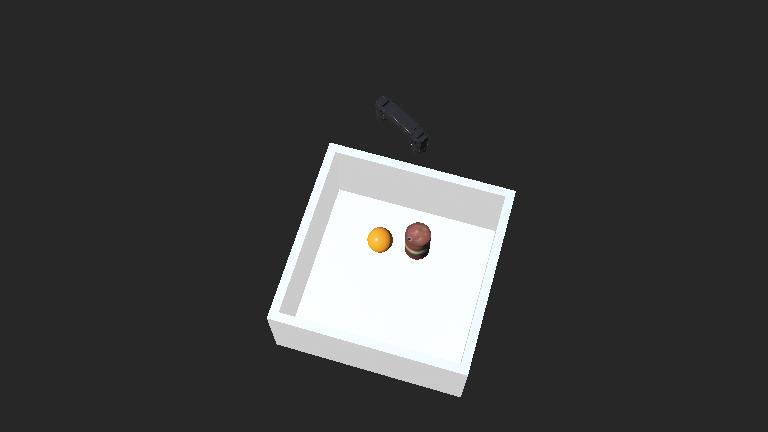
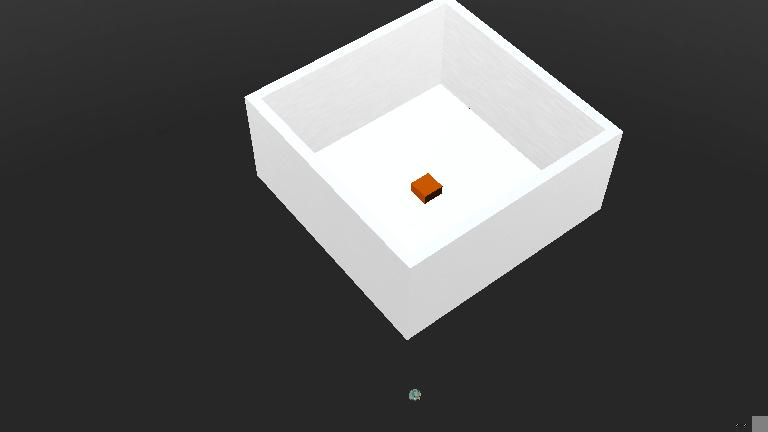
para ti sara

Changed region(s): [[0.3125, 0.0, 0.8125, 0.9329], [0.9688, 0.963, 1.0, 1.0]]

diff --git a/data_generator_alex.py b/data_generator_alex.py
@@ -1,50 +1,43 @@
-from controller import Supervisor
+import os
 import numpy as np
 import cv2
-import os
+from controller import Supervisor
 
-# Pasta onde salvar as imagens e labels
-save_dir = "images"
-os.makedirs(save_dir, exist_ok=True)
-os.makedirs(os.path.join(save_dir, "labels"), exist_ok=True)
-
-# Inicializa o supervisor
 supervisor = Supervisor()
 timestep = int(supervisor.getBasicTimeStep())
 
-# Câmara do robô
-camera = supervisor.getDevice("MultiSense S21 left camera")
+camera = supervisor.getDevice("camera")
 camera.enable(timestep)
+
 cam_width = camera.getWidth()
 cam_height = camera.getHeight()
 
-# Obtemos os dois objetos que queremos mover
-target1 = supervisor.getFromDef("BALL")
-target2 = supervisor.getFromDef("OIL_BARREL")
+save_dir = "dataset"
+os.makedirs(save_dir, exist_ok=True)
+os.makedirs(os.path.join(save_dir, "labels"), exist_ok=True)
 
+# Faixas para posição aleatória (x, y, z)
+x_range = (-0.5, 0.5)
+y_range = (-0.5, 0.5)
+z_range = (0, 3.5)
+
+target1 = supervisor.getFromDef("SOLID")  # nome do DEF do novo objeto
 target1_rotation = target1.getField("rotation")
-target2_rotation = target2.getField("rotation")
-
-# Permitir que os objetos caiam naturalmente durante 5 segundos
-print("A aguardar queda dos objetos...")
-for _ in range(int(5000 / timestep)):
-    supervisor.step(timestep)
-print("Início da captura.")
+target1_translation = target1.getField("translation")
 
 img_counter = 0
 
+for i in range(100):
+    # Gerar posição aleatória
+    pos = [np.random.uniform(*x_range), np.random.uniform(*y_range), np.random.uniform(*z_range)]
+    target1_translation.setSFVec3f(pos)
 
-# Para 10 imagens
-for i in range(10):
-    # Define nova posição aleatória (dentro do campo de visão da câmara)
-    # Define nova rotação aleatória no eixo Y
-    angle1 = np.random.uniform(0, 3.14)
-    angle2 = np.random.uniform(0, 3.14)
-    target1_rotation.setSFRotation([0, 1, 0, angle1])
-    target2_rotation.setSFRotation([0, 1, 0, angle2])
+    # Aplicar rotação aleatória
+    angle = np.random.uniform(0, 3.14)
+    target1_rotation.setSFRotation([0, 1, 0, angle])
 
-
-    for _ in range(int(2000 / timestep)):  # espera 2 segundos para a gravidade atuar
+    # Esperar que o objeto caia
+    for _ in range(int(3000 / timestep)):
         supervisor.step(timestep)
 
     # Captura imagem
@@ -52,12 +45,12 @@ for i in range(10):
     img = np.frombuffer(raw_image, np.uint8).reshape((cam_height, cam_width, 4))
     bgr = cv2.cvtColor(img, cv2.COLOR_RGBA2BGR)
 
-    print("ola")
     img_path = os.path.join(save_dir, f"frame_{img_counter:04d}.png")
     cv2.imwrite(img_path, bgr)
 
-    # Salva label YOLO
+    # Salva label YOLO (ficheiro vazio por agora)
     label_path = os.path.join(save_dir, "labels", f"frame_{img_counter:04d}.txt")
+    open(label_path, "w").close()
 
     print(f"[{img_counter}] Salvo: {img_path}, Label: {label_path}")
     img_counter += 1
